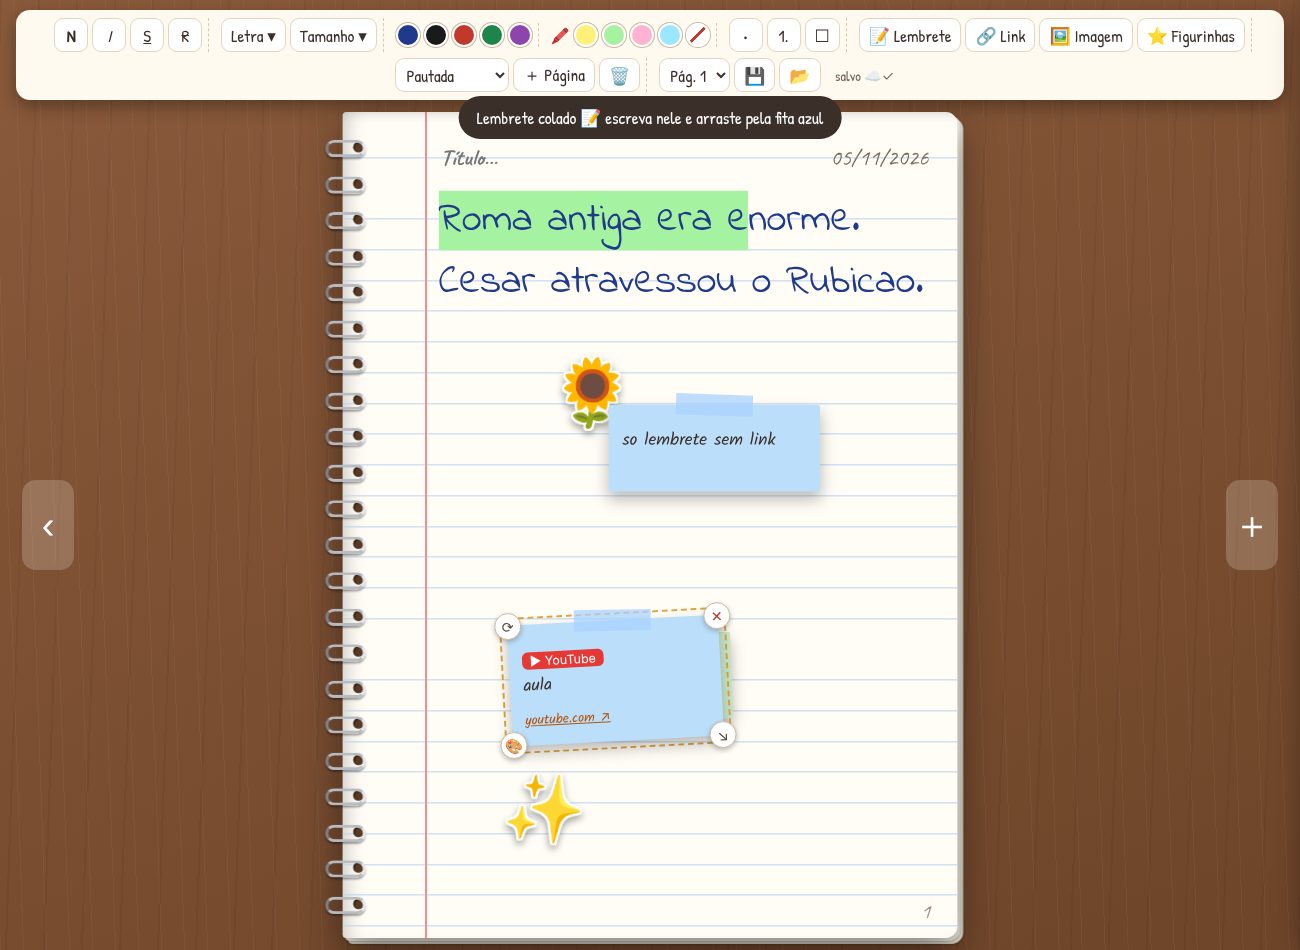
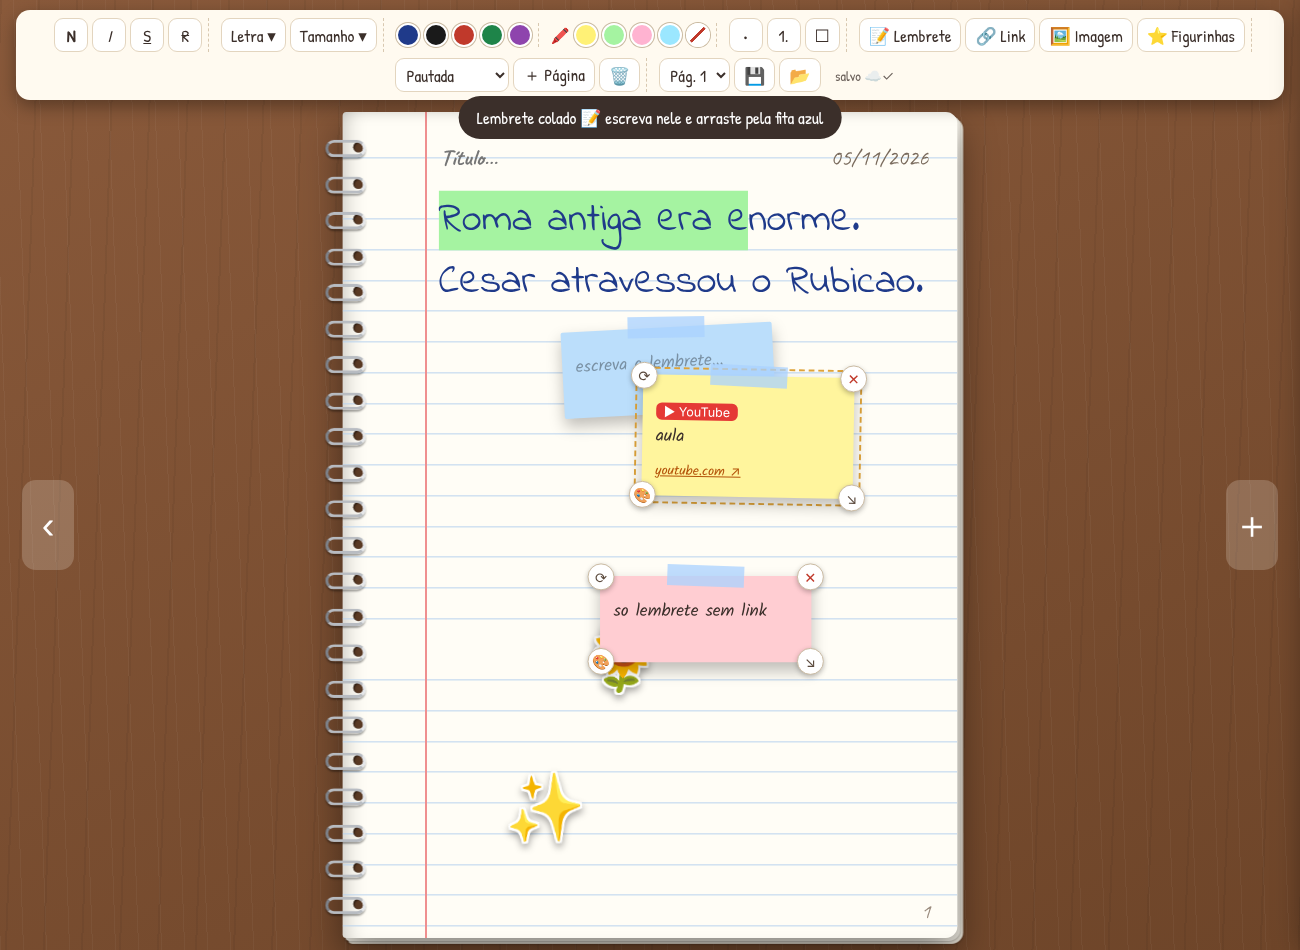
Caderno: copy read-only cloud data so stickers and reminders can be added
Claude-Session: https://claude.ai/code/session_019Hnua8TmqfQ3trwJFtF5V5

Changed region(s): [[0.3692, 0.58, 0.6462, 0.8853], [0.4308, 0.3358, 0.6769, 0.5495]]

diff --git a/caderno/meu-caderno.html b/caderno/meu-caderno.html
@@ -714,8 +714,12 @@ function wireItem(el, it) {
     rot.addEventListener('pointermove', mv); rot.addEventListener('pointerup', up);
   });
 }
+function unlockPages() {
+  state.pages = state.pages.map(p => Object.isFrozen(p) || Object.isFrozen(p.items || []) ? JSON.parse(JSON.stringify(p)) : p);
+}
 function addItem(it) {
   try {
+    if (curPage() && (Object.isFrozen(curPage()) || Object.isFrozen(curPage().items))) { unlockPages(); render(); }
     const page = curPage();
     if (!page) { needPage(); return null; }
     let layer = $('#view .layer');
@@ -1222,7 +1226,7 @@ const Cloud = {
       this.db = db;
       $('#status').textContent = 'abrindo…';
       const snap = await Promise.race([this.col().get(), new Promise((_, rej) => setTimeout(() => rej(new Error('timeout')), 12000))]);
-      const docs = {}; snap.docs.forEach(d => docs[d.id] = d.data());
+      const docs = {}; snap.docs.forEach(d => docs[d.id] = JSON.parse(JSON.stringify(d.data()))); // a nuvem entrega tudo trancado (só leitura)
       Object.entries(docs).forEach(([k, v]) => { if (k.startsWith('i_')) this.imgCache[k] = v.src; });
       this.merge(docs);
       Object.entries(docs).forEach(([k, v]) => this.synced[k] = JSON.stringify(v));
@@ -1279,7 +1283,7 @@ const Cloud = {
       let changed = false, currentChanged = false;
       for (const ch of snap.docChanges()) {
         if (ch.type === 'removed') continue;
-        const k = ch.doc.id, v = ch.doc.data(), j = JSON.stringify(v);
+        const k = ch.doc.id, j = JSON.stringify(ch.doc.data()), v = JSON.parse(j);
         if (this.synced[k] === j) continue; // é o eco do que este aparelho mesmo salvou
         this.synced[k] = j;
         if (k.startsWith('i_')) {
@@ -1420,6 +1424,7 @@ const Cloud = {
   state.pages.forEach(p => { p.items = p.items || []; if (!p.u) p.u = 1; seen(p.u); });
   seen(state.updatedAt || 0);
   document.title = state.title || 'Meu Caderno';
+  unlockPages();
   fit(); render();
   Cloud.start(hasLocal);
 })();
